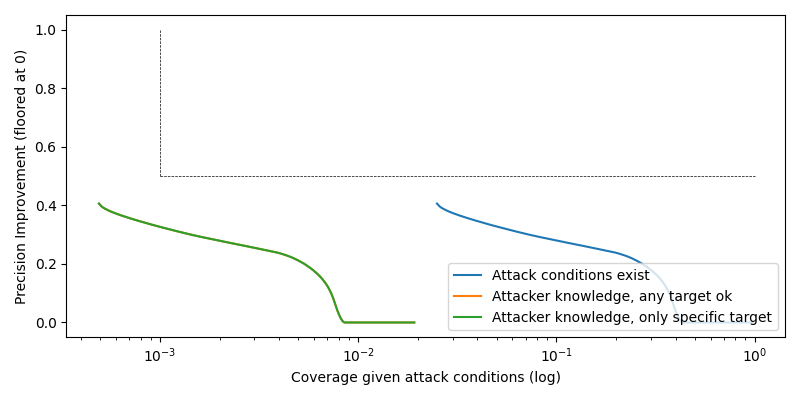
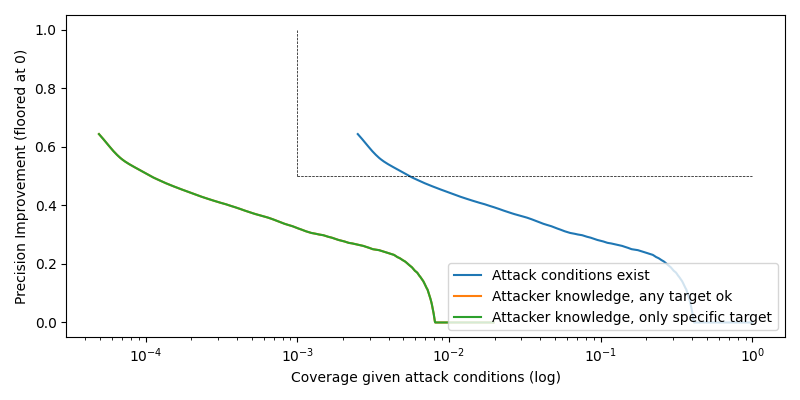
updates

diff --git a/suppress_threshold_attack.py b/suppress_threshold_attack.py
@@ -15,7 +15,8 @@ import pprint
 pp = pprint.PrettyPrinter(indent=4)
 
 remove_bad_files = False
-sample_for_model = 200000
+#sample_for_model = 200000
+sample_for_model = None
 roll_window = 500
 
 if 'SDX_TEST_DIR' in os.environ:
@@ -54,7 +55,7 @@ def do_model():
     # Retain a copy of X_test which includes all columns
     X_test_all = X_test.copy()
 
-    unneeded_columns = ['cap', 'tp']
+    unneeded_columns = ['cap', 'capt', 'tp']
     # Standardize the features
     scaler = StandardScaler()
     # Scale the data
@@ -115,11 +116,15 @@ def do_plots():
     print(X_test_all.head())
     print(f"Total rows: {X_test_all.shape[0]}")
 
-    # print the distribution of cap
+    # print distributions
+    print("Distribution of capt:")
+    print(X_test_all['capt'].describe())
     print("Distribution of cap:")
     print(X_test_all['cap'].describe())
     print("Distribution of pi_fl:")
     print(X_test_all['pi_fl'].describe())
+    avg_capt = X_test_all['capt'].mean()
+    print(f"Average capt: {avg_capt}")
     avg_cap = X_test_all['cap'].mean()
     print(f"Average cap: {avg_cap}")
 
@@ -142,7 +147,7 @@ def do_plots():
     X_test_all_sorted = X_test_all.sort_values(by='pi_fl', ascending=False).reset_index(drop=True)
 
     X_test_all_sorted['prob_perfect'] = (X_test_all_sorted.index + 1) / len(X_test_all_sorted)
-    X_test_all_sorted['prob_combs_targets'] = X_test_all_sorted['prob_perfect'] * avg_cap
+    X_test_all_sorted['prob_combs_targets'] = X_test_all_sorted['prob_perfect'] * avg_capt
     X_test_all_sorted['prob_combs'] = X_test_all_sorted['prob_perfect'] * avg_cap
     # Reverse the DataFrame
     df_plot = X_test_all_sorted.rolling(window=roll_window).mean()
@@ -156,9 +161,9 @@ def do_plots():
     plt.xscale('log')
     plt.hlines(0.5, 0.001, 1, colors='black', linestyles='--', linewidth=0.5)
     plt.vlines(0.001, 0.5, 1.0, colors='black', linestyles='--', linewidth=0.5)
-    plt.xlabel('Coverage given attack conditions (log)')
+    plt.xlabel('Coverage (log)')
     plt.ylabel(f'Precision Improvement (floored at {pi_floor})')
-    plt.legend(loc="lower right")
+    plt.legend(loc="lower left")
     plt.tight_layout()
     plt.savefig(os.path.join(attack_path, 'pi_cov.png'))
     plt.close()
@@ -181,9 +186,11 @@ def gather(instances_path):
                     continue
                 try:
                     res = json.load(f)
-                    cap = res['summary']['coverage_all_combs_targets']
+                    capt = res['summary']['coverage_all_combs_targets']
+                    cap = res['summary']['coverage_all_combs']
                     num_rows = res['summary']['num_rows']
                     for entry in res['attack_results']:
+                        entry['capt'] = capt
                         entry['cap'] = cap
                         entry['frac_tar'] = entry['nrtv'] / num_rows
                         all_entries.append(entry)

diff --git a/README.md b/README.md
@@ -38,15 +38,19 @@ Besides the above, `exact_count_gather.py` and `exact_count_analyze.py` were use
 
 This attack exploits the suppression mechanism of SynDiffix to try to determine if a given user has a certain value in some column. Under the conditions when the attacker knows that there are exactly three persons with a given value in column A, and knows that two of them have a certain other value in column B, the presence or absence of the column A value in the output allows the attacker, in certain situations, to determine whether the third person has the column B value.
 
-This attack can be run with `suppress_threshold_theory.py`.
+There are two versions of this attack. One of them simulates ideal attack conditions, and is good to study the basic characteristics of the attacks (`suppress_threshold_theory.py`). The other runs attacks on the real datasets (`suppress_threshold_attack.py`)
 
-Requires two environment variables:
+Both variants require two environment variables:
 
 `SDX_TEST_DIR`: This is where the results are stored
 
 `SDX_TEST_CODE`: This is the path to the directory where `suppress_threshold_theory.py` resides.
 
-Requires that a virtual environment exists at `SDX_TEST_DIR/sdx_venv`
+They also require that a virtual environment exists at `SDX_TEST_DIR/sdx_venv`
+
+### Simulated suppress threshold attack
+
+The simulated attack can be run with `suppress_threshold_theory.py`.
 
 The syntax is:
 
@@ -54,8 +58,28 @@ The syntax is:
 
 `command = slurm`: Generates a slurm file at `SDX_TEST_DIR/suppress_theory/theory.slurm`. Running `sbatch theory.slrum` will run the simulated attacks and place the results in a set of json files at `SDX_TEST_DIR/suppress_theory/tests`
 
-`command = gather`: Reads in the json files at `SDX_TEST_DIR/suppress_theory/tests`, summarizes them, and and puts the summary in the file `SDX_TEST_DIR/suppress_theory/results/suppress_threshold_results.json`
+`command = gather`: Reads in the json files at `SDX_TEST_DIR/suppress_theory/tests`, summarizes them, and puts the summary in the file `SDX_TEST_DIR/suppress_theory/results/suppress_threshold_results.json`
 
 `command = plot`: Creates a visual plot from `SDX_TEST_DIR/suppress_theory/results/suppress_threshold_results.json`, and puts it at `SDX_TEST_DIR/suppress_theory/results/suppress.png`.
 
 `command = membership`: Runs a simple membership variant of the attack.  In this variant the attacker knows that there are either two or three persons in the dataset with a given column value, and knows that if there is a third person in the dataset then they must also have the column values, and wants to determine if the third person is indeed in the dataset.  Puts the result in `SDX_TEST_DIR/suppress_theory/results/suppress_threshold_results_no_infer.json`
+
+### Real suppress threshold attack
+
+The real attack can be run with `suppress_threshold_attack.py`.
+
+The syntax is:
+
+`python suppress_threshold_attack.py <command>`
+
+`command = slurm`: Generates a slurm file at `SDX_TEST_DIR/suppress_attack/attack.slurm`. Running `sbatch attack.slrum` will run the simulated attacks and place the results in a set of json files at `SDX_TEST_DIR/suppress_attack/instances`
+
+`command = gather`: Reads in the json files at `SDX_TEST_DIR/suppress_attack/instances`, summarizes them, and puts the summary in the file `SDX_TEST_DIR/suppress_attack/results.parquet`.
+
+`command = model`: Reads in `results.parquet`, creates a LogisticRegression model to determine the best attack, and runs the model against the test set. It places the results of the models in these files under `suppress_attack`:
+
+* `X_test.parquet`
+* `y_score.parquet`
+* `y_test.parquet`
+
+`command = plots`: Creates visual plots from the models, and puts the resulting `png` files in `suppress_attack`.
